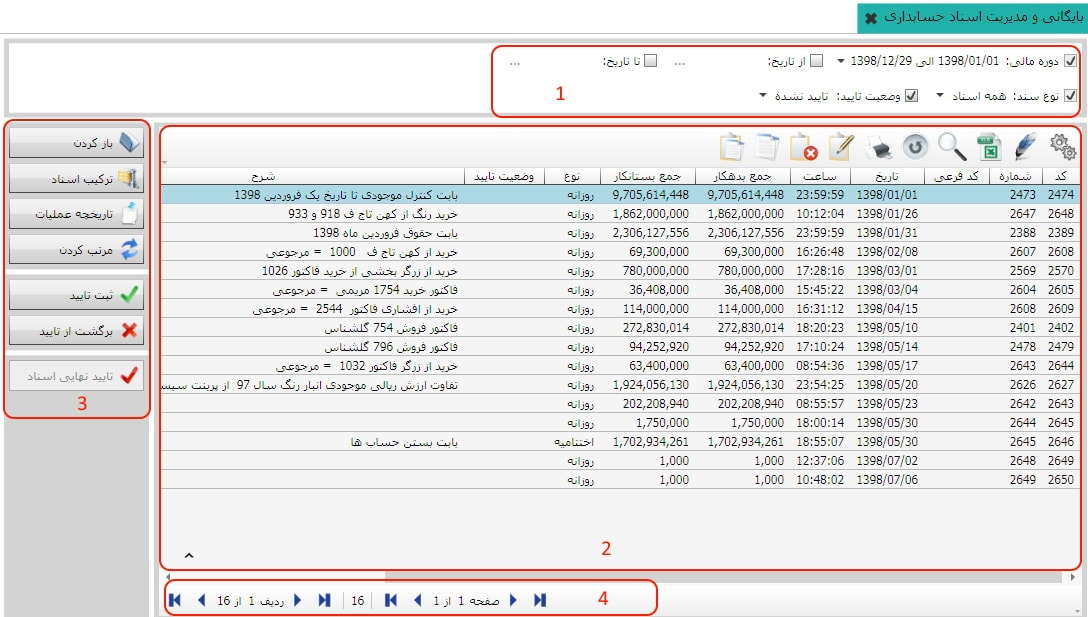
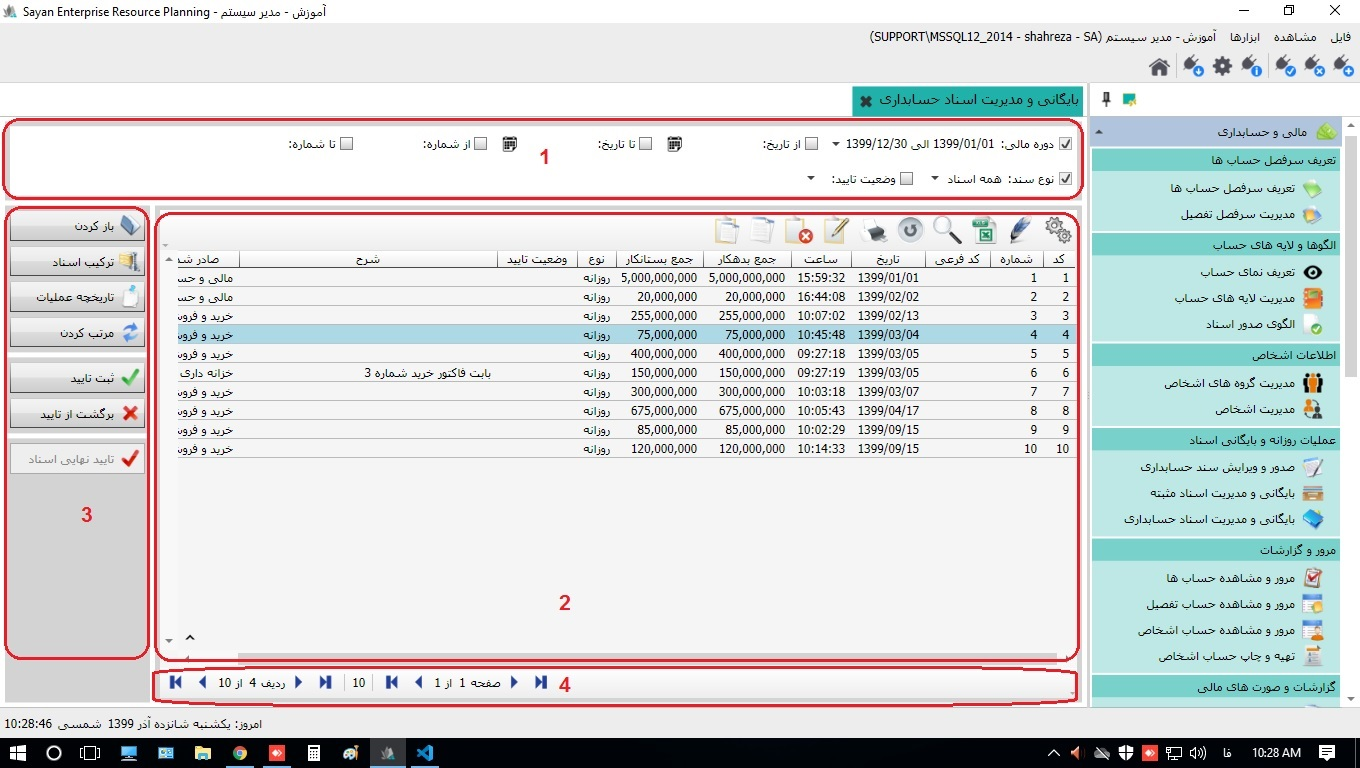
مدیریت و بایگانی اسناد حسابداری

diff --git a/Help/fa-IR/_03_مالی و حسابداری/_10_بایگانی و مدیریت اسناد حسابداری/Index.html b/Help/fa-IR/_03_مالی و حسابداری/_10_بایگانی و مدیریت اسناد حسابداری/Index.html
@@ -41,7 +41,13 @@
 		خود را انتخاب کنید تا اسناد مربوط به بازه
 		تاریخی نمایش داده شوند، برای تعیین تاریخ
 		روی نقطه چین کلیک کنید.
-		<br>
+	</p>
+	<img class="" src="s5.jpg" />
+	<p>
+		با استفاده از این گزینه می توانید شماره ی اسناد را فیلتر کنید و فقط 
+		اسنادی که شماره ی آنها فیلتر شده را ببینید.
+	</p>
+
 		<img class="TinyPic" src="t1.jpg" />
 	</p>
 	<p>
